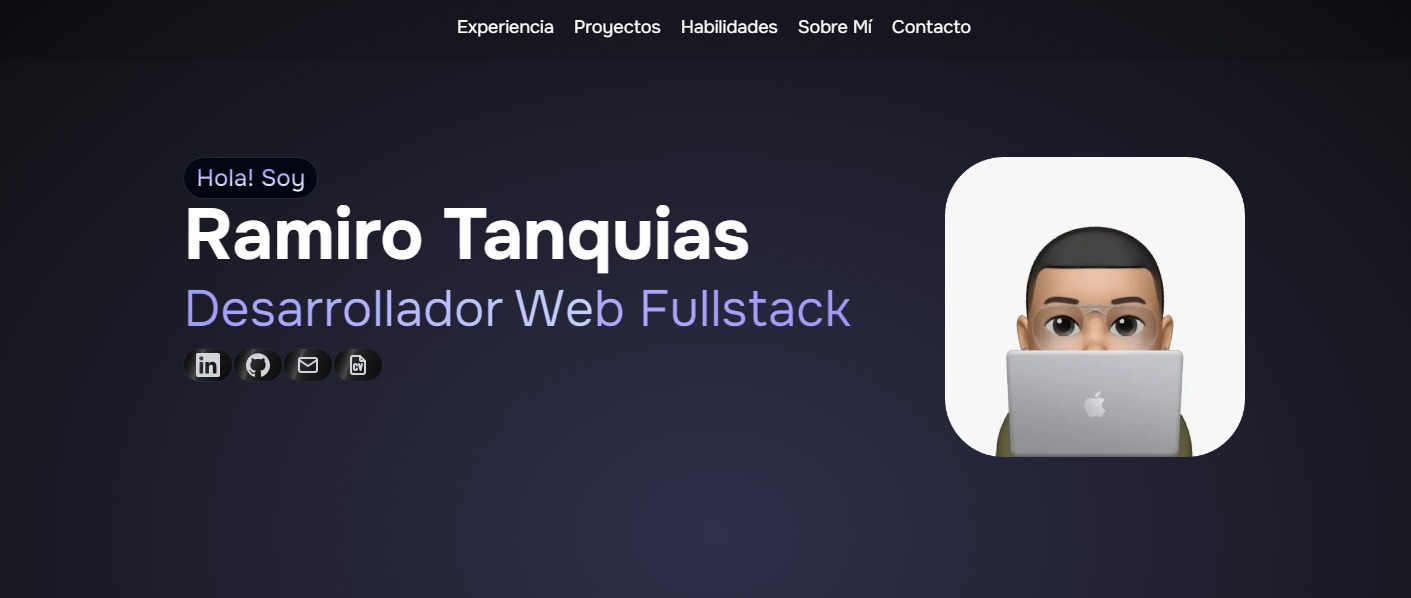
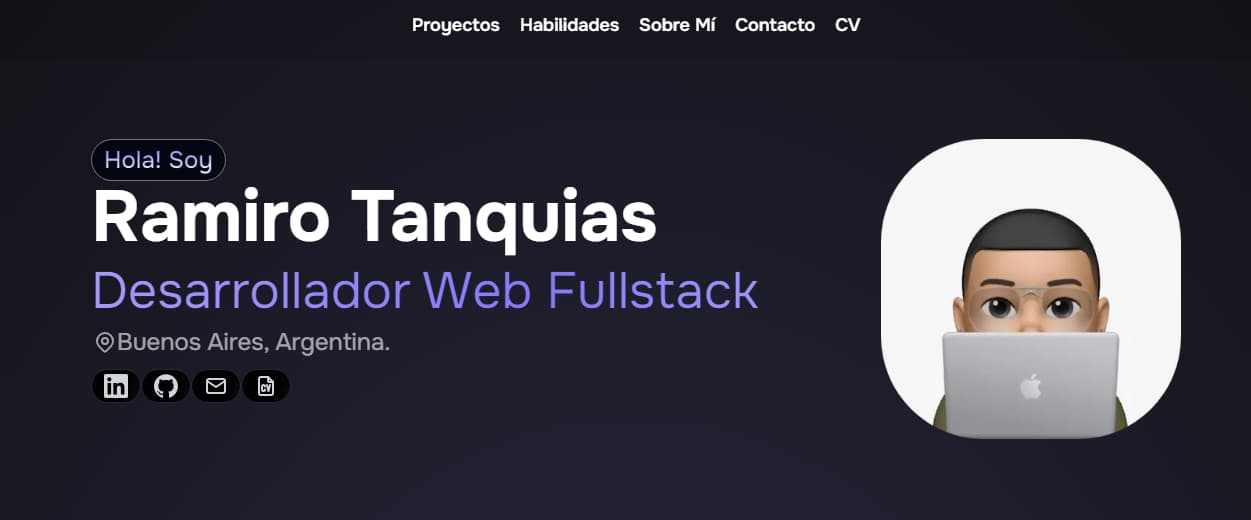
Card project finalizada

diff --git a/app/components/Projects.tsx b/app/components/Projects.tsx
@@ -7,34 +7,37 @@ const PROJECTS = [
     title: "Rick and Morty Wiki",
     url: "https://rick-and-morty-wiki-kappa.vercel.app/",
     repo: "https://github.com/ramatc/rick-and-morty-wiki",
-    image: "ricky.png",
+    image: "ricky.jpg",
     description:
       "Una aplicación desarrollada con React y CSS, utilizando la API de Rick and Morty. Permite a los usuarios explorar y descubrir todo el universo de Rick and Morty, incluyendo personajes, episodios y ubicaciones.",
-    color: 0,
+    color: "title-rick",
+    technologies: ["react.js", "css", "api"],
   },
   {
     title: "Guess Pokémon",
     url: "https://guess-pokemon-iota.vercel.app/",
     repo: "https://github.com/ramatc/guess-pokemon",
-    image: "poke.png",
+    image: "poke.jpg",
     description:
       "Un divertido juego realizado con React y TypeScript que desafía a los usuarios a adivinar el nombre de diferentes Pokémon a partir de su silueta.",
-    color: 1,
+    color: "title-pokemon",
+    technologies: ["react.js", "typescript"],
   },
   {
     title: "Memotest",
     url: "https://memotest-inky.vercel.app/",
     repo: "https://github.com/ramatc/memotest",
-    image: "memo.png",
+    image: "memo.jpg",
     description:
       "Un juego de memoria implementado con React y TypeScript, aprovechando la potencia de Vite. Pon a prueba tu memoria y diviértete emparejando cartas.",
-    color: 2,
+    color: "title-memo",
+    technologies: ["react.js", "typescript", "vite"],
   },
   // {
   //   title: "VinylWRLD",
   //   url: "https://vinyl-wrld.vercel.app/",
   //   repo: "https://github.com/ramatc/vinyl-wrld-js",
-  //   image: "viny.png",
+  //   image: "viny.jpg",
   //   description:
   //     "Un simulador de E-commerce que te permite explorar y comprar vinilos. Creado como proyecto final para el curso de JavaScript de CoderHouse, este E-commerce simula una experiencia de compra auténtica y fluida.",
   // },

diff --git a/app/components/CardProject.tsx b/app/components/CardProject.tsx
@@ -2,21 +2,22 @@
 import Image from "next/image";
 import { useRef, useState } from "react";
 import ButtonProject from "@/app/components/ButtonProject";
+import BadgeTextGradient from "@/app/components/BadgeTextGradient";
 import ExternalLink from "@/app/ui/icons/ExternalLink";
 import Repo from "@/app/ui/icons/Repo";
+
 interface Project {
   title: string;
   url: string;
   repo: string;
   image: string;
   description: string;
-  color: number;
+  color: string;
+  technologies: string[];
 }
 
-const COLORS = ["#d3a6d4", "#ffd368", "#6b8e23"];
-
 const CardProject = ({ project }: { project: Project }) => {
-  const { title, url, repo, image, description, color } = project;
+  const { title, url, repo, image, description, color, technologies } = project;
   const divRef = useRef<HTMLDivElement>(null);
   const [isFocused, setIsFocused] = useState(false);
   const [position, setPosition] = useState({ x: 0, y: 0 });
@@ -76,10 +77,15 @@ const CardProject = ({ project }: { project: Project }) => {
         />
       </a>
       <div className="w-[57%] px-2">
-        <h5 className={`font-bold text-[${COLORS[color]}]`}>{title}</h5>
-        <p className="text-gray-300 mb-5 text-[18px]">{description}</p>
+        <h5 className={`font-bold pt-6 ${color}`}>{title}</h5>
+        <p className="text-gray-200 mb-5 text-[18px]">{description}</p>
         <ButtonProject title="demo" url={url} icon={<ExternalLink />} />
         <ButtonProject title="code" url={repo} icon={<Repo />} />
+        <div className="mt-6">
+          {technologies.map((technologie, i) => (
+            <BadgeTextGradient title={technologie} key={i} />
+          ))}
+        </div>
       </div>
     </article>
   );

diff --git a/app/components/BadgeTextGradient.tsx b/app/components/BadgeTextGradient.tsx
@@ -1,0 +1,9 @@
+const BadgeTextGradient = ({ title }: { title: string }) => {
+  return (
+    <span className="inline-flex items-center justify-center rounded-full border border-gray-600 bg-gray-200 px-2 py-1 mr-1 text-sm font-medium text-gray-950">
+      <span className="font-mono">#{title}</span>
+    </span>
+  );
+};
+
+export default BadgeTextGradient;

diff --git a/app/components/Header.tsx b/app/components/Header.tsx
@@ -17,6 +17,11 @@ const Header = () => {
           <li>
             <a href="#contacto">Contacto</a>
           </li>
+          <li>
+            <a href="CV-RAMIRO-TANQUIAS.pdf" target="_blank">
+              CV
+            </a>
+          </li>
         </ul>
       </nav>
     </header>

diff --git a/app/globals.css b/app/globals.css
@@ -42,11 +42,22 @@ h4 {
 
 h5 {
   font-size: 1.5rem;
-  padding-top: 20px;
 }
 
 section {
   padding-bottom: 8rem;
+}
+
+.title-rick {
+  color: #d3a6d4;
+}
+
+.title-pokemon {
+  color: #ffd368;
+}
+
+.title-memo {
+  color: #6b8e23;
 }
 
 @media (prefers-color-scheme: dark) {

diff --git a/app/components/header.module.css b/app/components/header.module.css
@@ -13,8 +13,8 @@
 
 .ul a{
   transition: all 0.5s ease;
+  font-weight: 600;
 }
-
 
 .ul a:hover{
   color: #aeaecb
